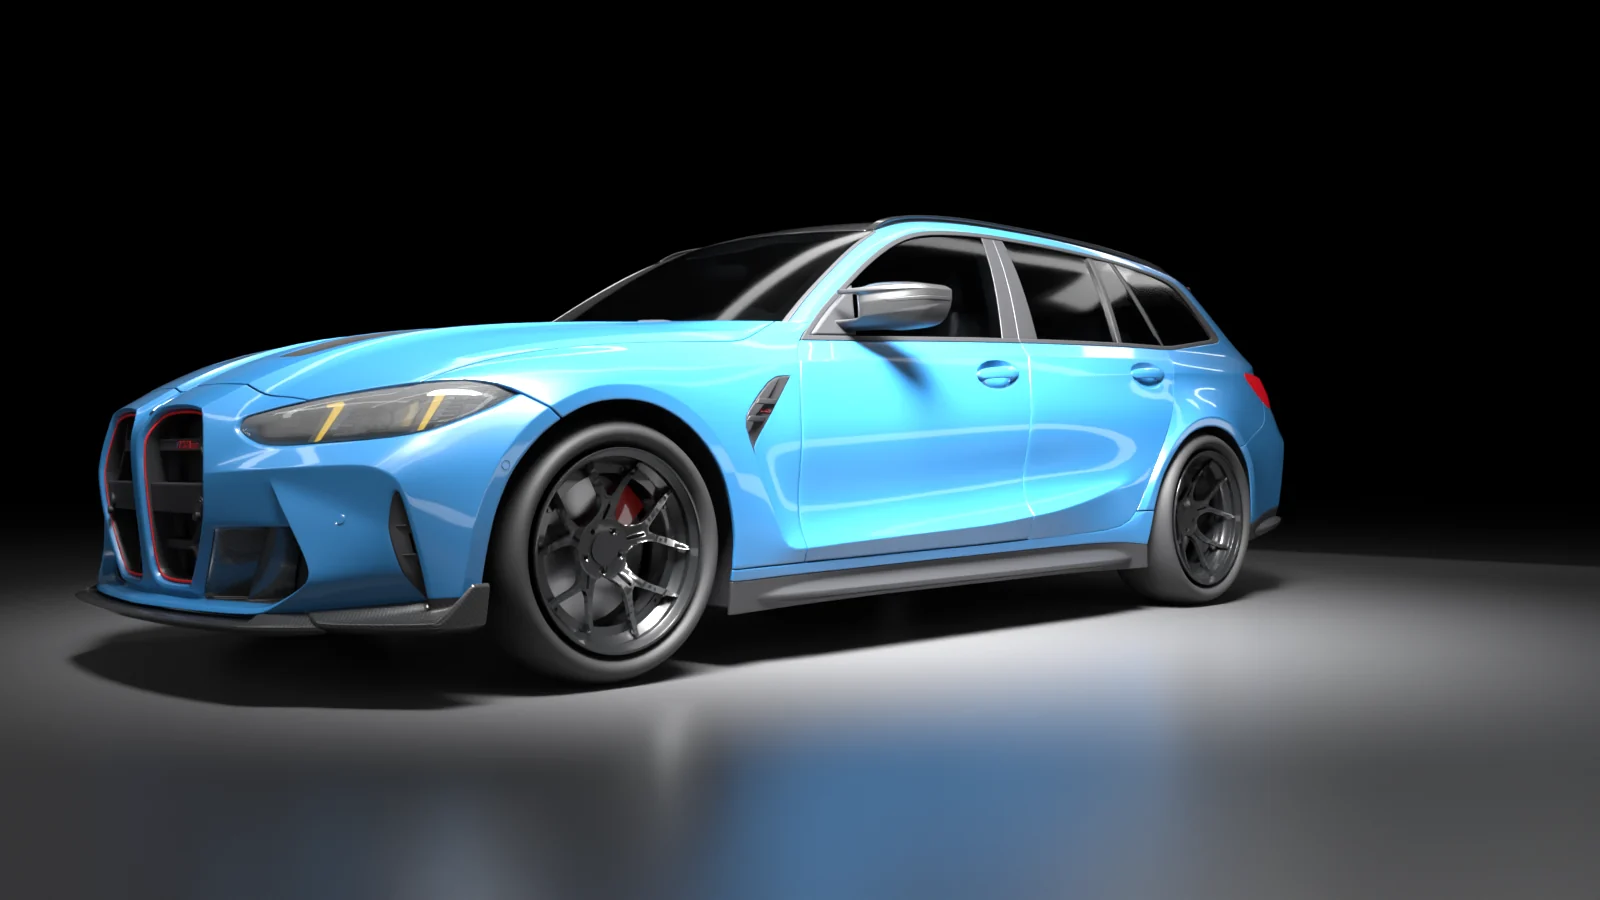
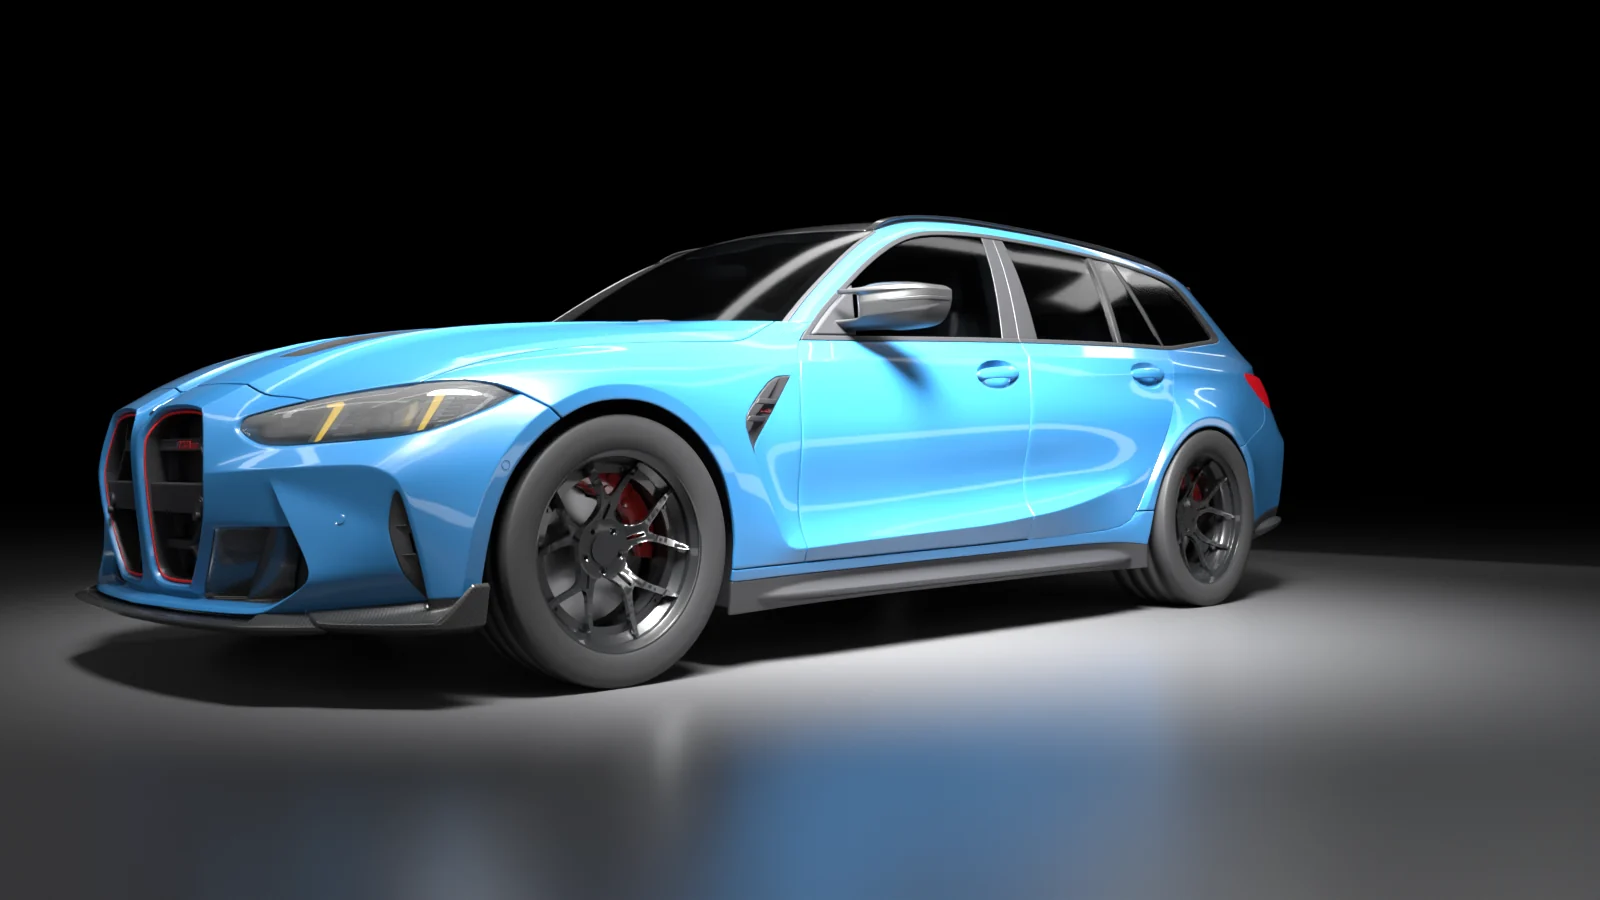
fix(hero): welcome stills use a real tyre profile and the monobloc caliper
Why: the owner said the tyres on the welcome screen looked like bubbles. The welcome
stills built each tyre from a Blender torus stretched to width (a doughnut), and the
caliper was a red cube. They now use the same turned tyre profile as the wheel layers
(flat tread, tight shoulder, nearly straight sidewall) and caliper.py. The tyre profile
is a shared helper (profile_tyre); the profile itself is also tightened (the old one
bulged 22 % of the half-width past the tread edge).

Fifteen stills are replaced; the four owner-studio stills (M2 CS, M4 CS, M5, M5 Touring)
are kept as the quality bar. HERO_VERSION bumped to 20261124a for the cache.

Checked: bun run lint; X5 M before/after side by side; contact sheet of all 15 new stills
viewed. Not checked: on a phone, or the stage wheel layers (they still carry the earlier,
slightly rounder tyre profile until they are re-rendered).

Claude-Session: https://claude.ai/code/session_015obiwYr2JT9ZertwAVjNpN

Changed region(s): [[0.3125, 0.4356, 0.4688, 0.7778], [0.7188, 0.4667, 0.7812, 0.6844]]

diff --git a/components/journey/HeroStage.tsx b/components/journey/HeroStage.tsx
@@ -11,7 +11,7 @@ import { cx } from './ui';
  * Stamp on every hero image URL. The stills keep their names when re-rendered and /hero/ is cached for a day plus a week of
  * stale-while-revalidate, so bump this whenever public/hero/* changes (phones kept showing the old M3 Touring still).
  */
-export const HERO_VERSION = '20261123d';
+export const HERO_VERSION = '20261124a';
 export const heroUrl = (carId: string, width: 960 | 1600) => `/hero/${carId}-${width}.webp?v=${HERO_VERSION}`;
 
 /** One car on the welcome stage: a Cycles still rendered in the reference studio (public/hero/<carId>-<w>.webp). */

diff --git a/scripts/prerender/render_car.py b/scripts/prerender/render_car.py
@@ -610,6 +610,35 @@ def srgb_lin(hx, what):
     return [c / 12.92 if c <= 0.04045 else ((c + 0.055) / 1.055) ** 2.4 for c in (int(hx[i:i + 2], 16) / 255 for i in (0, 2, 4))]
 
 
+def profile_tyre(rubber, x, y, z, r, ri, wd):
+    """A tyre turned from a profile around the axle (X): bead, gently bulged flat sidewalls, rounded shoulders and a
+    tread with three circumferential grooves, as wheelKit's buildTyre, not a torus."""
+    h = r - ri; hw = wd / 2; gd = min(0.008, h * 0.06)
+    if os.environ.get('TYRE_OLD'):
+        side = [(-0.90, ri), (-0.97, ri + 0.2 * h), (-1.0, ri + 0.5 * h), (-0.985, ri + 0.78 * h), (-0.94, r - 0.035 * h),
+                (-0.86, r - 0.004), (-0.78, r)]
+    else:
+        # a real tyre's section is only a little wider than its tread: nearly straight sidewalls, a tight shoulder radius
+        # (the earlier profile bulged 22 % of the half-width past the tread edge and read as a balloon)
+        side = [(-0.90, ri), (-0.955, ri + 0.12 * h), (-0.985, ri + 0.4 * h), (-0.99, ri + 0.65 * h), (-0.965, r - 0.09 * h),
+                (-0.925, r - 0.025 * h), (-0.88, r - 0.003), (-0.84, r)]
+    tread = []
+    for c in (-0.45, 0.0, 0.45):   # grooves 12 mm wide
+        g = 0.012 / hw * 0.5 if hw > 0 else 0.03
+        tread += [(c - g, r), (c - g, r - gd), (c + g, r - gd), (c + g, r)]
+    prof = side + tread + [(-a, rr) for a, rr in reversed(side)]
+    bm = bmesh.new()
+    vs = [bm.verts.new((a * hw, 0, rr)) for a, rr in prof]
+    es = [bm.edges.new((vs[k], vs[k + 1])) for k in range(len(vs) - 1)]
+    bmesh.ops.spin(bm, geom=vs + es, cent=(0, 0, 0), axis=(1, 0, 0), angle=2 * math.pi, steps=144, use_merge=True)
+    bmesh.ops.recalc_face_normals(bm, faces=bm.faces)
+    me = bpy.data.meshes.new('layer_tyre'); bm.to_mesh(me); bm.free()
+    ob = bpy.data.objects.new('layer_tyre', me); sc.collection.objects.link(ob)
+    ob.location = (x, y, z); me.materials.append(rubber)
+    for pl in me.polygons: pl.use_smooth = True
+    return ob
+
+
 if a.plate:
     # Studio plate: the welcome stills' floor, light pool and black void, without the car (its frames bring the body and
     # its shadow). The key light sits where the hero still's does: placed from the front three-quarter camera, so the
@@ -644,6 +673,8 @@ if a.hero:
     rubber = matp('hero_rubber', (0.022, 0.022, 0.023), 0.0, 0.62)
     disc_m = matp('hero_disc', (0.42, 0.42, 0.43), 1.0, 0.32)
     cal_m = matp('hero_caliper', (0.55, 0.02, 0.02), 0.0, 0.3, 1.0)
+    steel_m = matp('hero_cal_steel', (0.045, 0.045, 0.05), 1.0, 0.4)
+    pad_m = matp('hero_cal_pad', (0.018, 0.018, 0.018), 0.0, 0.85)
     def load_rim(path):
         before = set(bpy.data.objects)
         try: bpy.ops.import_scene.gltf(filepath=path)
@@ -674,16 +705,12 @@ if a.hero:
         rim.rotation_mode = 'XYZ'   # glTF imports use quaternions, which would ignore rotation_euler
         rim.scale = (ro / rad,) * 3; rim.rotation_euler = (0, 0, sgn * math.pi / 2)   # face (-Y) outwards (+-X)
         rim.location = (x, y, z)
-        ri = ro * 0.97; bpy.ops.mesh.primitive_torus_add(major_radius=(r + ri) / 2, minor_radius=(r - ri) / 2,
-                                                         major_segments=96, minor_segments=24, location=(x, y, z), rotation=(0, math.pi / 2, 0))
-        ty = bpy.context.object; ty.scale = (1, 1, wd / (r - ri)); ty.data.materials.append(rubber)
-        for pl in ty.data.polygons: pl.use_smooth = True
+        ri = ro * 0.97
+        profile_tyre(rubber, x, y, z, r, ri, wd)   # the same turned tyre as the wheel layers (a scaled torus read as a bubble)
         bpy.ops.mesh.primitive_cylinder_add(vertices=64, radius=ri * 0.78, depth=0.03, location=(x - sgn * 0.07, y, z), rotation=(0, math.pi / 2, 0))
         bpy.context.object.data.materials.append(disc_m)
-        cy_off = 0.62 * ri * 0.78; front = i < 2
-        bpy.ops.mesh.primitive_cube_add(size=1, location=(x - sgn * 0.045, y + (cy_off if front else -cy_off) * 0.7, z + cy_off * 0.7))
-        cal = bpy.context.object; cal.scale = (0.07, 0.15, 0.09); cal.rotation_euler = (math.radians(45 if front else -45), 0, 0)
-        cal.data.materials.append(cal_m)
+        front = i < 2; s_ = r / 0.35
+        caliper_mod.make(bpy, bmesh, mathutils, sc, (cal_m, steel_m, pad_m), x - sgn * 0.07 * s_, y, z, ri * 0.78, s_, -1, sgn, front, rim)
     for o in (src for src, _ in rims): bpy.data.objects.remove(o, do_unlink=True)
     floor.is_shadow_catcher = False   # a real floor: the light pool and the car's reflection are in the picture
     fb = floor.data.materials[0].node_tree.nodes['Principled BSDF']
@@ -796,26 +823,7 @@ if a.wheel_layer:
         return rim_cache[path]
 
     def tyre(x, y, z, r, ri, wd):
-        """A tyre turned from a profile around the axle (X): bead, gently bulged flat sidewalls, rounded shoulders and a
-        tread with three circumferential grooves, as wheelKit's buildTyre, not a torus."""
-        h = r - ri; hw = wd / 2; gd = min(0.008, h * 0.06)
-        side = [(-0.90, ri), (-0.97, ri + 0.2 * h), (-1.0, ri + 0.5 * h), (-0.985, ri + 0.78 * h), (-0.94, r - 0.035 * h),
-                (-0.86, r - 0.004), (-0.78, r)]
-        tread = []
-        for c in (-0.45, 0.0, 0.45):   # grooves 12 mm wide
-            g = 0.012 / hw * 0.5 if hw > 0 else 0.03
-            tread += [(c - g, r), (c - g, r - gd), (c + g, r - gd), (c + g, r)]
-        prof = side + tread + [(-a, rr) for a, rr in reversed(side)]
-        bm = bmesh.new()
-        vs = [bm.verts.new((a * hw, 0, rr)) for a, rr in prof]
-        es = [bm.edges.new((vs[k], vs[k + 1])) for k in range(len(vs) - 1)]
-        bmesh.ops.spin(bm, geom=vs + es, cent=(0, 0, 0), axis=(1, 0, 0), angle=2 * math.pi, steps=144, use_merge=True)
-        bmesh.ops.recalc_face_normals(bm, faces=bm.faces)
-        me = bpy.data.meshes.new('layer_tyre'); bm.to_mesh(me); bm.free()
-        ob = bpy.data.objects.new('layer_tyre', me); sc.collection.objects.link(ob)
-        ob.location = (x, y, z); me.materials.append(rubber)
-        for pl in me.polygons: pl.use_smooth = True
-        return ob
+        return profile_tyre(rubber, x, y, z, r, ri, wd)
 
     def caliper(x, y, z, disc_r, s, toward, sgn, front, rim):
         """The fixed monobloc caliper (scripts/prerender/caliper.py): a clean C-section casting, six piston bosses, bridge bolts, never trimmed to the spokes."""
